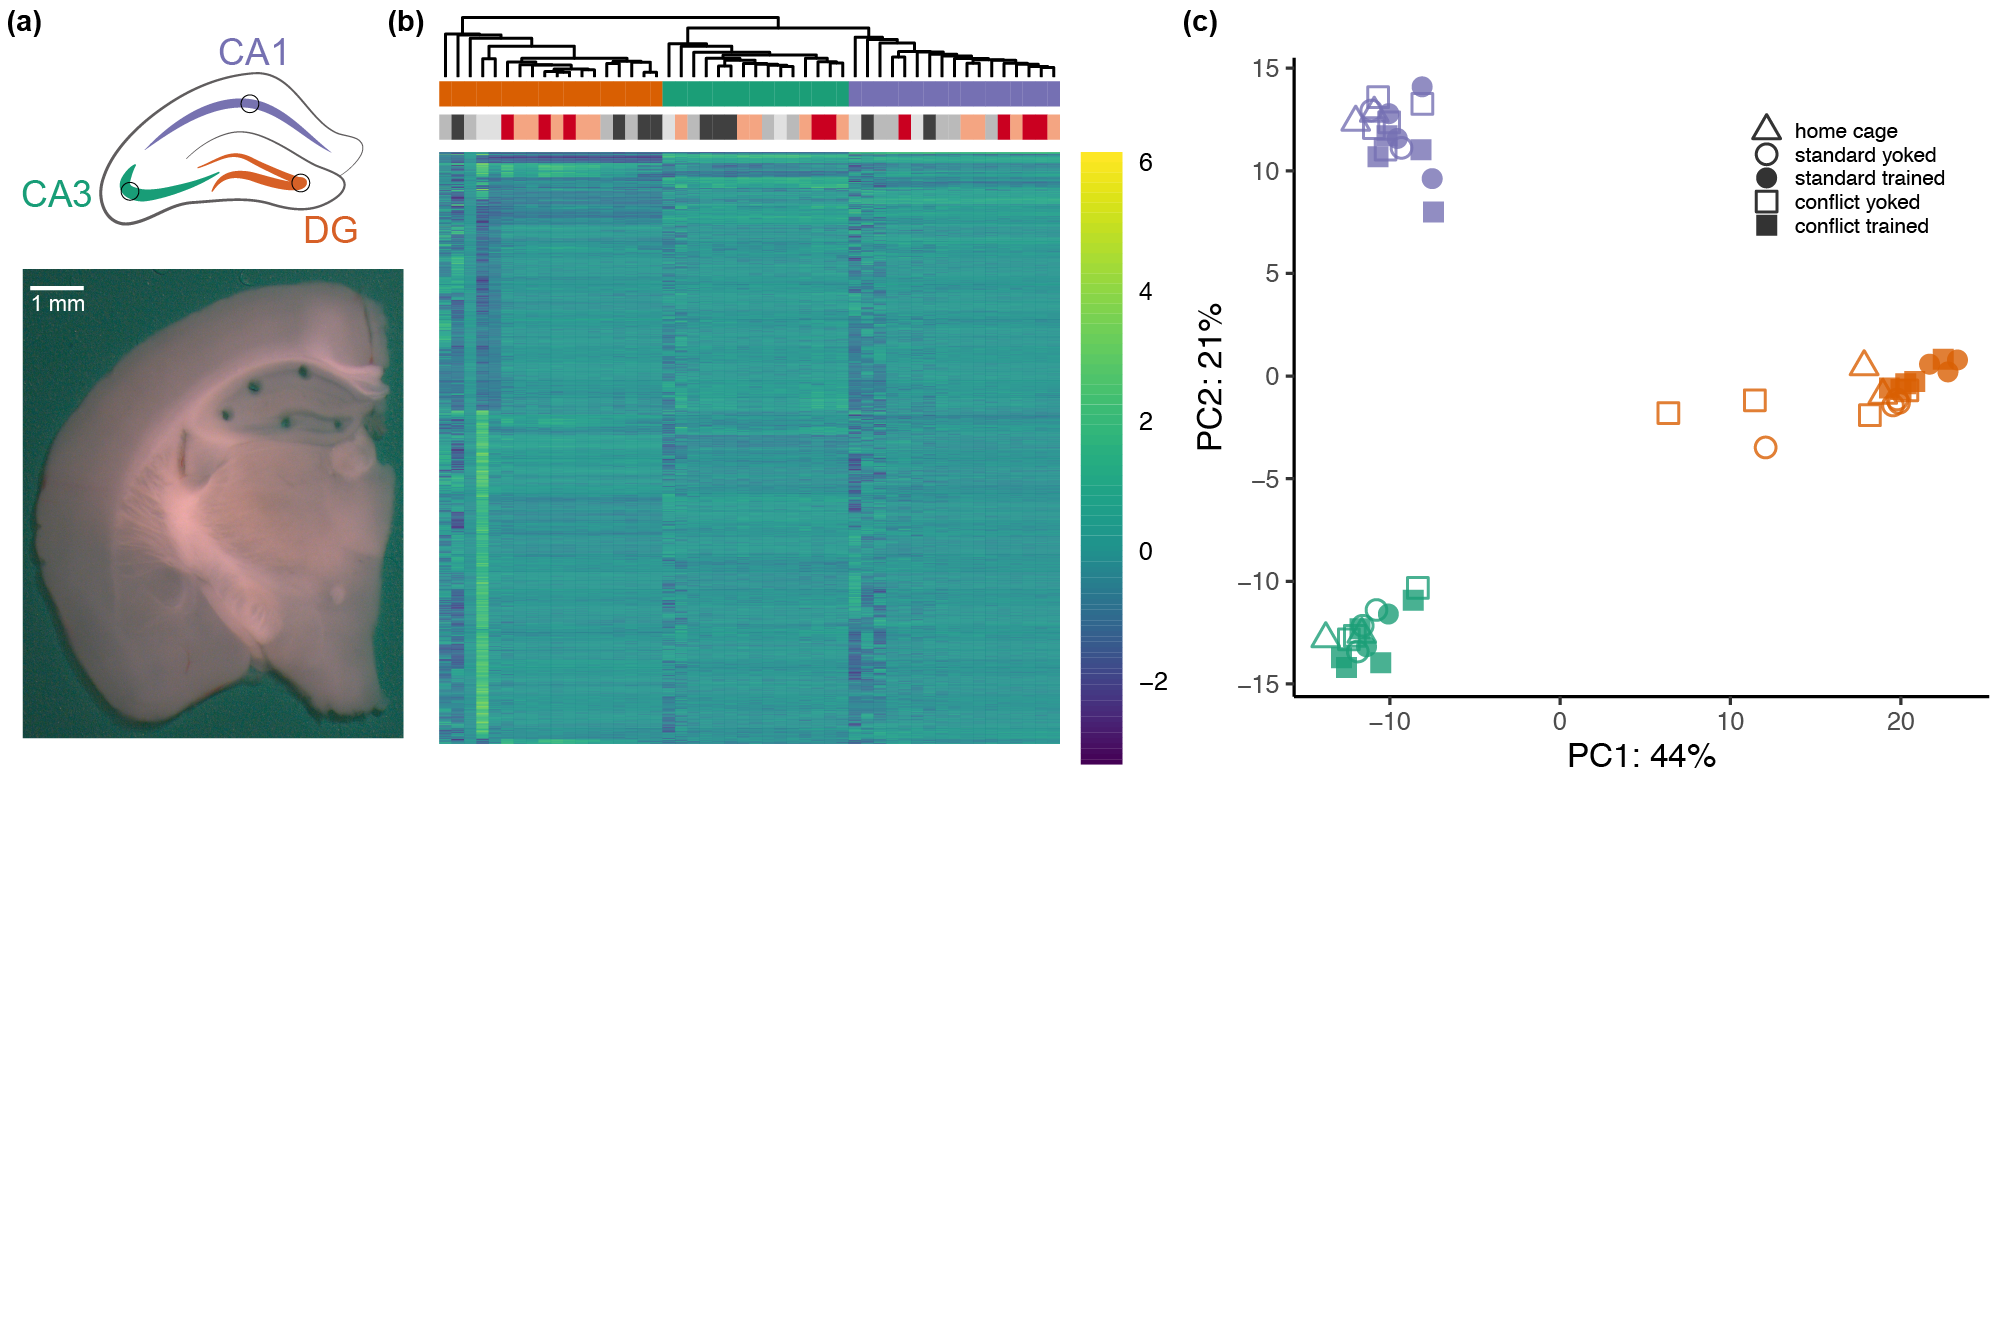
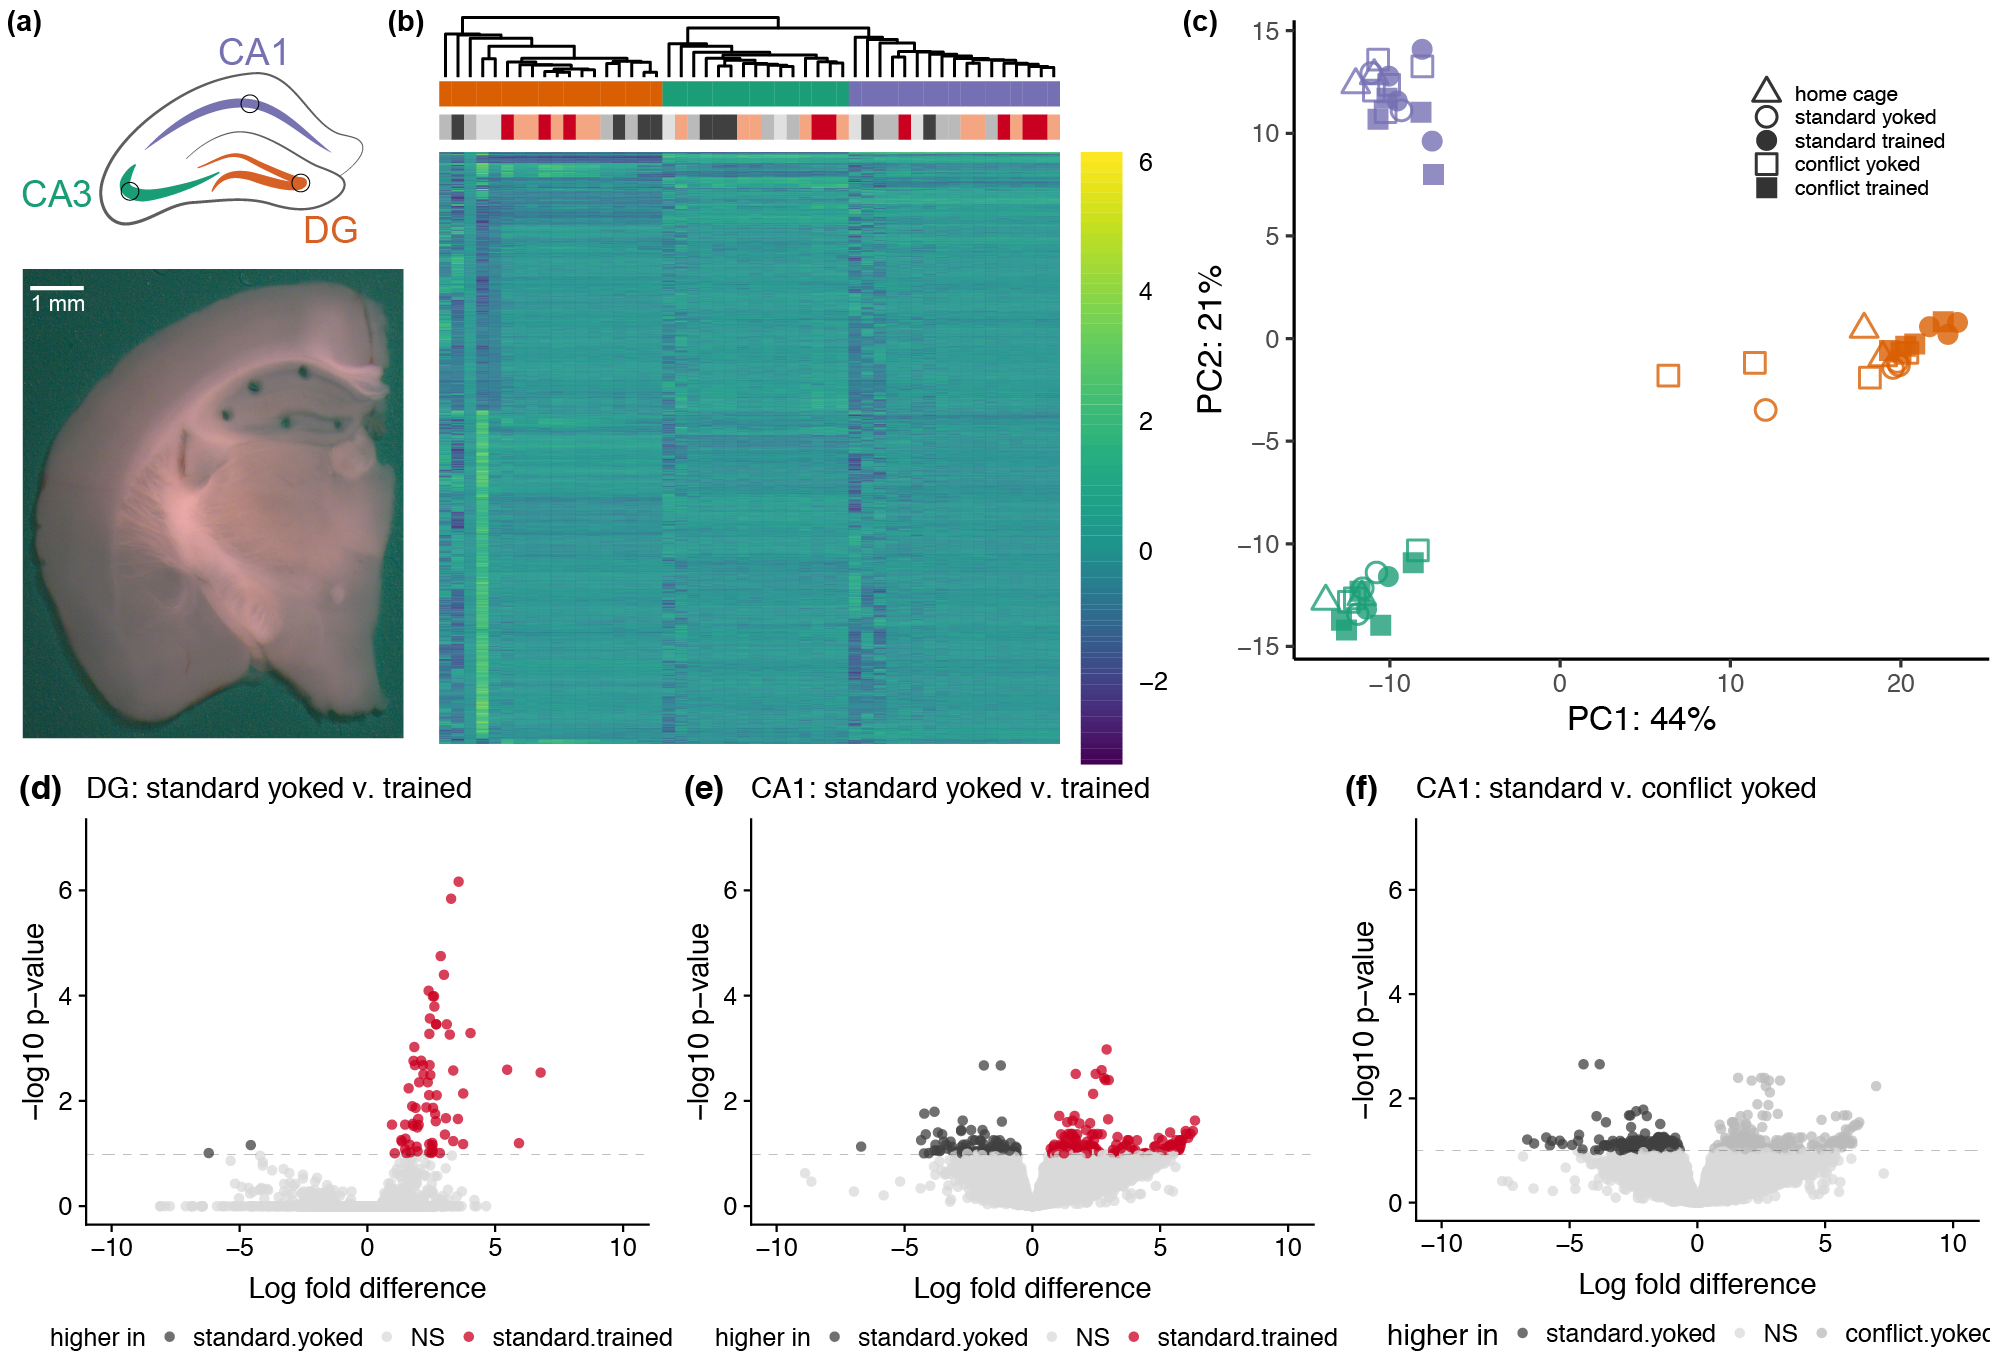
new fig 2

diff --git a/scripts/02c_rnaseqSubfield.md b/scripts/02c_rnaseqSubfield.md
@@ -466,7 +466,8 @@ Yoked confict versus yoked consistent
 
 ![](../figures/02c_rnaseqSubfield/yokeconfyokcons-4.png)
 
-    volcanos <- plot_grid(DGconsyokcons  ,CA1consyokcons  , CA1yoked , nrow = 1) 
+    volcanos <- plot_grid(DGconsyokcons  ,CA1consyokcons  , CA1yoked , nrow = 1,
+                          labels = c("(d)", "(e)", "(f)"), label_size = 8) 
     volcanos
 
 ![](../figures/02c_rnaseqSubfield/fig5volcanos-1.png)
